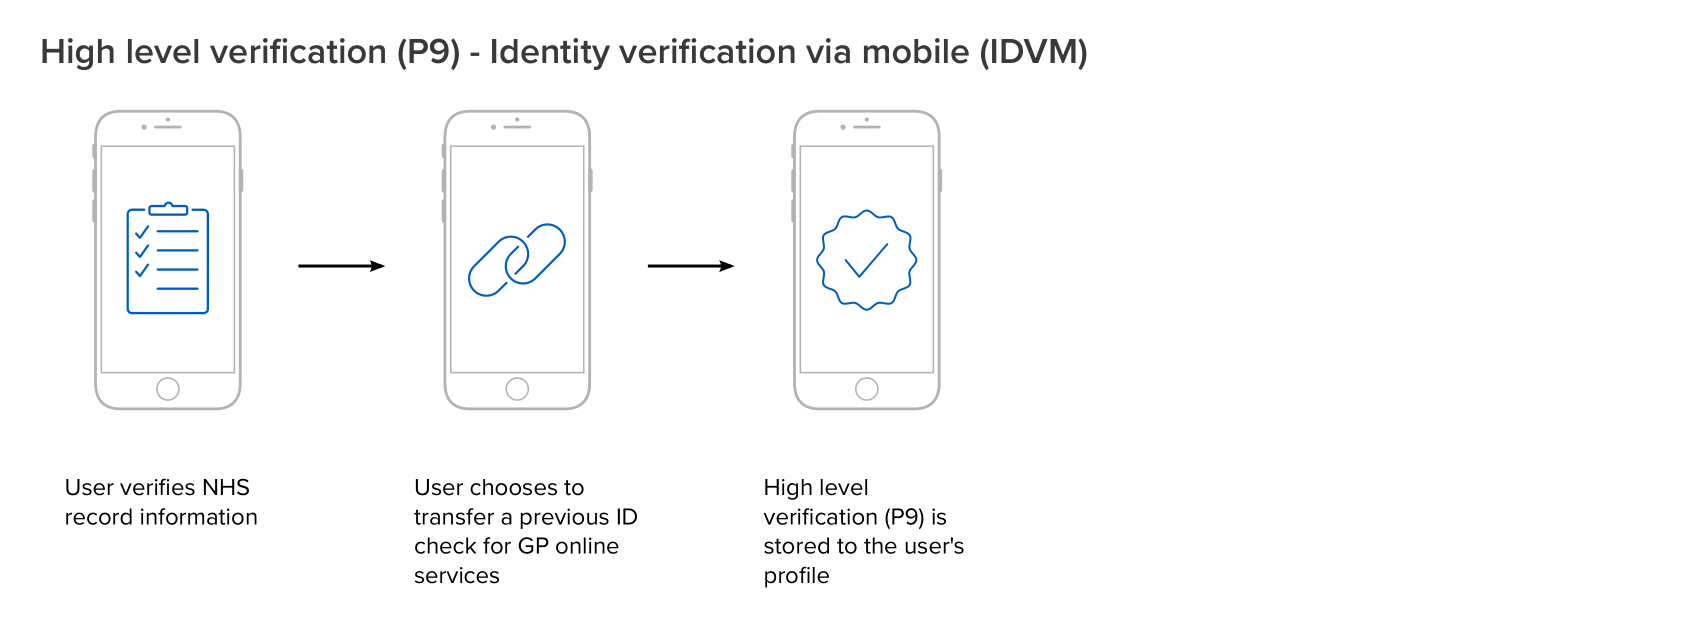
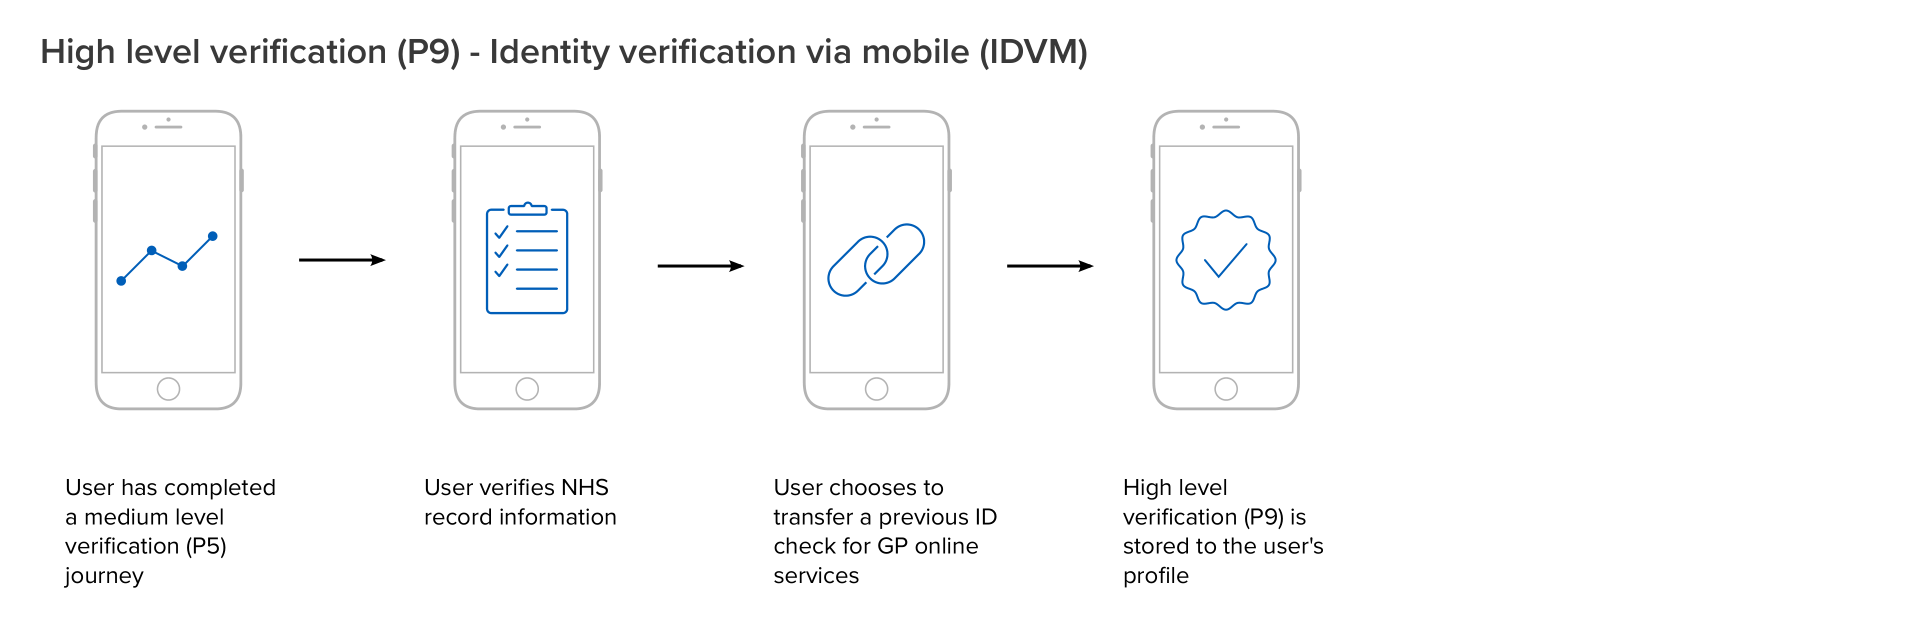
updated user journey diagrams

diff --git a/src/user-journeys.md b/src/user-journeys.md
@@ -27,7 +27,7 @@ All of the NHS login user journeys start with the NHS login button on your websi
 Only the user’s email address and phone number are required to register for a service. Users can log in with an email address and password, with or without the need for an OTP (one time password).
 
 <div class="design-example">
-  <a href="https://raw.githubusercontent.com/nhsconnect/nhslogin/main/src/images/Journey_P0.svg" class="design-example__pop-out" target="_blank">Open the P0 user journey in new window</a>
+  <a href="https://raw.githubusercontent.com/nhsconnect/nhslogin/main/src/images/Journey_P0.svg" class="design-example__pop-out" target="_blank">Open the P0 user journey in a new window</a>
     <div class="code-embed">
     <img class="nhsuk-image__img" src="https://github.com/nhsconnect/nhslogin/raw/main/src/images/Journey_P0.png" alt="Diagram showing the P0 user journey">
   </div>
@@ -47,19 +47,19 @@ Only the user’s email address and phone number are required to register for a 
         <div class="app-tabs__container js-tabs__container" id="default-example" role="tabpanel">
               <div class="app-tabs__item app-tabs__item--mobile" role="presentation" data-index="ex-1">
                 <a href="" role="tab" aria-controls="default-example" data-track="tab-html" aria-selected="true">
-                  What the Partner Service gets
+                  Provided to Partner Service
                 </a>
               </div>
             <div class="code-snippet__preformatted" data-index="ex-1">
               <div class="app-code-snippet__macro"></div>
               <div class="app-code-snippet__container">
               <ul>
-              <li>User verified email & phone number - one time passcode (OTP) sent to phone</li>
+              <li>User verified email & phone number</li>
               </div>
             </div>
               <div class="app-tabs__item app-tabs__item--mobile" role="presentation" data-index="ex-2">
                 <a href="" role="tab" aria-controls="default-example" data-track="tab-html" aria-selected="true">
-                  What is not provided
+                  Not provided to Partner Service
                 </a>
               </div>
             <div class="code-snippet__preformatted js-hidden" data-index="ex-2">
@@ -69,7 +69,7 @@ Only the user’s email address and phone number are required to register for a 
               <div class="app-code-snippet__container">
               <ul>
               <li>User identity not verified</li>
-                <li>No NHS number </li>
+                <li>No NHS number</li>
                 <li>No checks with their NHS Personal Demographics Service (PDS) record, (held on Spine)</li>
                 <li>No GP surgery code (ODS code)</li>
                 <li>No GP surgery online registration information (linkage key) - which allows access to medical records</li>
@@ -97,15 +97,15 @@ Only the user’s email address and phone number are required to register for a 
 
 <h2 id="p5">Medium level verification (P5)</h2>
 
-To gain a medium level verification, the user must first complete a low level verification journey. 
+To gain a medium level verification, the user must first complete a low level verification (P0) journey. 
 
-Users can’t access medical records or personal information, nor should the user transfer sensitive or personal information. The Partner Service can’t disclose sensitive info or medical record data.
+Users can’t access medical records or personal information, nor should the user transfer sensitive or personal information. The Partner Service can’t disclose sensitive information or medical record data.
 
 This level of verification is just a claimed identity. If a Partner Service wishes to use and rely on the user’s NHS number they need to request a high-level verification (P9).
 
 
 <div class="design-example">
-  <a href="https://raw.githubusercontent.com/nhsconnect/nhslogin/main/src/images/Journey_P5.png" class="design-example__pop-out" target="_blank">Open the P5 user journey in new window</a>
+  <a href="https://raw.githubusercontent.com/nhsconnect/nhslogin/main/src/images/Journey_P5.png" class="design-example__pop-out" target="_blank">Open the P5 user journey in a new window</a>
     <div class="code-embed">
     <img class="nhsuk-image__img" src="https://github.com/nhsconnect/nhslogin/raw/main/src/images/Journey_P5.png" alt="Diagram showing the P5 user journey">
   </div>
@@ -125,7 +125,7 @@ This level of verification is just a claimed identity. If a Partner Service wish
         <div class="app-tabs__container js-tabs__container" id="default-example" role="tabpanel">
               <div class="app-tabs__item app-tabs__item--mobile" role="presentation" data-index="ex-1">
                 <a href="" role="tab" aria-controls="default-example" data-track="tab-html" aria-selected="true">
-                  What the Partner Service gets
+                  Provided to Partner Service
                 </a>
               </div>
             <div class="code-snippet__preformatted" data-index="ex-1">
@@ -133,15 +133,15 @@ This level of verification is just a claimed identity. If a Partner Service wish
               <div class="app-code-snippet__container">
               <ul>
               <li>User verified email and phone number</li>
-                <li>User verified date of birth, NHS number, first name and last name – this information has been checked with their NHS Personal Demographics Service (PDS) record (held on Spine)</li>
-                <li>User verified the area code of their postcode – this information has been checked with and ‘fuzzy matched’ to their NHS Personal Demographics Service (PDS) record (held on Spine)</li>
-                <li>GP surgery code (ODS code)</li>
+              <li>User verified date of birth, NHS number, first name and last name – this information has been checked with their NHS Personal Demographics Service (PDS) record (held on Spine)</li>
+              <li>User verified the area code of their postcode – this information has been checked with and ‘fuzzy matched’ to their NHS Personal Demographics Service (PDS) record (held on Spine)</li>
+              <li>GP surgery code (ODS code)</li>
                 </ul>
               </div>
             </div>
               <div class="app-tabs__item app-tabs__item--mobile" role="presentation" data-index="ex-2">
                 <a href="" role="tab" aria-controls="default-example" data-track="tab-html" aria-selected="true">
-                  What is not provided
+                  Not provided to Partner Service
                 </a>
               </div>
             <div class="code-snippet__preformatted js-hidden" data-index="ex-2">
@@ -151,7 +151,7 @@ This level of verification is just a claimed identity. If a Partner Service wish
               <div class="app-code-snippet__container">
               <ul>
               <li>User identity based only on claimed credentials</li>
-                <li>No GP surgery online registration information (linkage key) – which allows access to medical records</li>
+              <li>No GP surgery online registration information (linkage key) – which allows access to medical records</li>
                 </ul>
               </div>
             </div>
@@ -174,24 +174,24 @@ In addition to what users can do with low level verification (P0), users can als
 
 <h2 id="p9">High level verification (P9)</h2>
 
-To gain a high level verification, the user must first complete a low and medium level verification journey. 
+To gain a high level verification, the user must first complete a low and medium level verification (P0 & P5) journey. 
 
 There are three ways in which a user can acquire high level verification (P9). The use cases and what the Partner Service gets are the same but the user journey is different.
 
-High level verification is needed when personal, confidential or sensitive information is being communicated either to or from the user. It is also required when the user can access their medical records e.g. GP record via a 3rd party – such as Co-op Health app, NHS App or TPP Airmid.
+High level verification (P9) is needed when personal, confidential or sensitive information is being communicated either to or from the user. It is also required when the user can access their medical records e.g. GP record via a 3rd party – such as Co-op Health app, NHS App or TPP Airmid.
 
-Identity verification via mobile (IDVM) is only available to P5 users who are registered for Patient Online (POL) at their GP and their phone number matches the one against their GP record.
+Identity verification via mobile (IDVM) is only available to medium level verified (P5) users who are registered for Patient Online (POL) at their GP and their phone number matches the one against their GP record.
 
 
 <div class="design-example">
-    <a href="https://raw.githubusercontent.com/nhsconnect/nhslogin/main/src/images/Journey_P9_IDVM.png" class="design-example__pop-out" target="_blank">Open the P9 IDVM journey in new window</a>
+    <a href="https://raw.githubusercontent.com/nhsconnect/nhslogin/main/src/images/Journey_P9_IDVM.png" class="design-example__pop-out" target="_blank">Open the P9 IDVM journey in a new window</a>
     <div class="code-embed">
     <img class="nhsuk-image__img" src="https://github.com/nhsconnect/nhslogin/raw/main/src/images/Journey_P9_IDVM.png" alt="Diagram showing the P9 IDVM user journey">
-  <a href="https://raw.githubusercontent.com/nhsconnect/nhslogin/main/src/images/Journey_P9_PYI.png" class="design-example__pop-out" target="_blank">Open the P9 PYI journey in new window</a>
+  <a href="https://raw.githubusercontent.com/nhsconnect/nhslogin/main/src/images/Journey_P9_PYI.png" class="design-example__pop-out" target="_blank">Open the P9 PYI journey in a new window</a>
     <div class="code-embed">
     <img class="nhsuk-image__img" src="https://github.com/nhsconnect/nhslogin/raw/main/src/images/Journey_P9_PYI.png" alt="Diagram showing the P9 PYI user journey">
   </div>
-    <a href="https://raw.githubusercontent.com/nhsconnect/nhslogin/main/src/images/Journey_P9_POL.png" class="design-example__pop-out" target="_blank">Open the P9 POL journey in new window</a>
+    <a href="https://raw.githubusercontent.com/nhsconnect/nhslogin/main/src/images/Journey_P9_POL.png" class="design-example__pop-out" target="_blank">Open the P9 POL journey in a new window</a>
     <div class="code-embed">
     <img class="nhsuk-image__img" src="https://github.com/nhsconnect/nhslogin/raw/main/src/images/Journey_P9_POL.png" alt="Diagram showing the P9 POL user journey">
   </div>
@@ -207,7 +207,7 @@ Identity verification via mobile (IDVM) is only available to P5 users who are re
         <div class="app-tabs__container js-tabs__container" id="default-example" role="tabpanel">
               <div class="app-tabs__item app-tabs__item--mobile" role="presentation" data-index="ex-1">
                 <a href="" role="tab" aria-controls="default-example" data-track="tab-html" aria-selected="true">
-                  What the Partner Service gets
+                  Provided to Partner Service
                 </a>
               </div>
             <div class="code-snippet__preformatted" data-index="ex-1">
@@ -216,7 +216,7 @@ Identity verification via mobile (IDVM) is only available to P5 users who are re
               <ul>
                 <li>User ID fully authenticated</li>
                 <li>User verified email and phone number</li>
-                <li>User also verified date of birth, NHS number, first name, last name and postcode – this information has been checked with their NHS Personal Demographics Service (PDS) record (held on Spine)</li>
+                <li>User verified date of birth, NHS number, first name, last name and postcode – this information has been checked with their NHS Personal Demographics Service (PDS) record (held on Spine)</li>
                 <li>GP surgery code (ODS code)</li>
                 <li>GP surgery online information (linkage key) – which allows access to medical records</li>
                 </ul>
@@ -230,12 +230,12 @@ Identity verification via mobile (IDVM) is only available to P5 users who are re
 
 In addition to what users can do with medium level verification (P5), users can also:
 <ul>
-<li>Enquire against official record, e.g. read medical record, view NHS number, order repeat prescriptions, view SCR or detailed record, manage / view appointments, view tailored online NHS services and online content.</li>
-<li>Record medical data into private healthcare consultation record.</li>
-<li>Enable delegated access for another validated individual.</li>
-<li>Register for online account where treatment requires high level identity assurance or access to / adding to existing medical record.</li>
-<li>Record new phone number or new email address online.</li>
-<li>Submit a request to register at a new GP surgery.</li>
+<li>Enquire against official record, e.g. read medical record, view NHS number, order repeat prescriptions, view SCR or detailed record, manage / view appointments, view tailored online NHS services and online content</li>
+<li>Record medical data into private healthcare consultation record</li>
+<li>Enable delegated access for another validated individual</li>
+<li>Register for online account where treatment requires high level identity assurance or access to / adding to existing medical record</li>
+<li>Record new phone number or new email address online</li>
+<li>Submit a request to register at a new GP surgery</li>
 
 </ul> 
 
